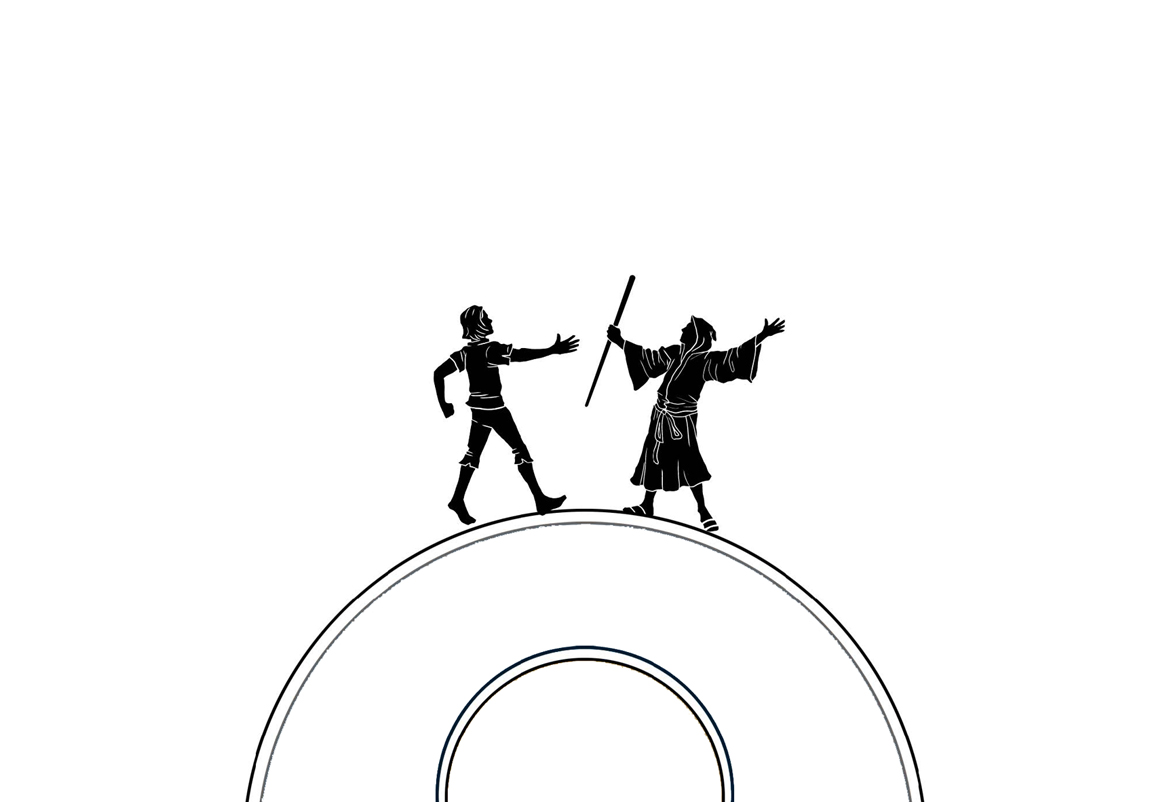
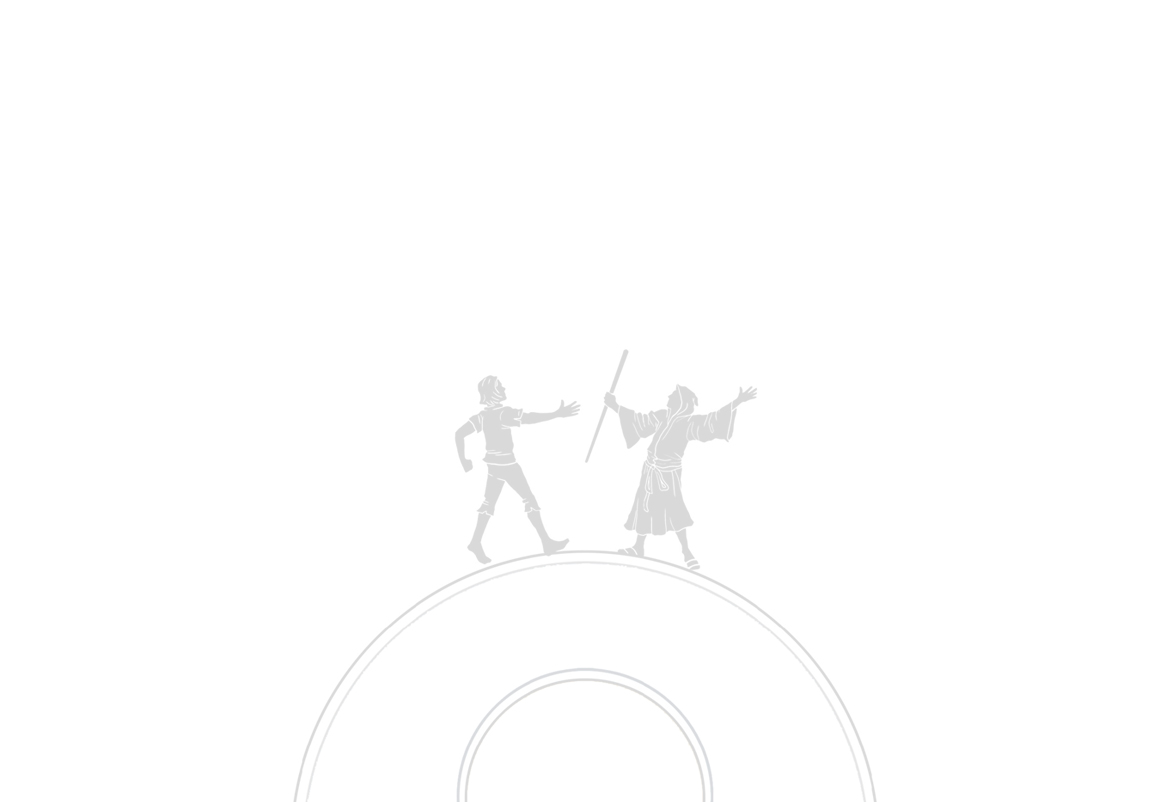
transparency for the story arc image

diff --git a/css/styles.css b/css/styles.css
@@ -35,7 +35,7 @@ html,body {
 .storyarc{
 	height: 100%;
 	background: transparent url("https://raw.githubusercontent.com/LauraHilliger/gp-storystyle/master/images/storyarc.jpg") no-repeat fixed center center / cover;
-    background-color: transparent;
+	background-color: rgba(255, 255, 255, 0.7);
     background-image: url("https://raw.githubusercontent.com/LauraHilliger/gp-storystyle/master/images/storyarc.jpg");
     background-repeat: no-repeat;
     background-attachment: fixed;
@@ -116,7 +116,7 @@ a.list-group-item.active:hover, a.list-group-item.active:focus {
 }
   
 #section2 {
-	background-color: #e5e5ef;
+	background-color: rgba(255, 255, 255, 0.7);
     color:#686868;
 }
  
